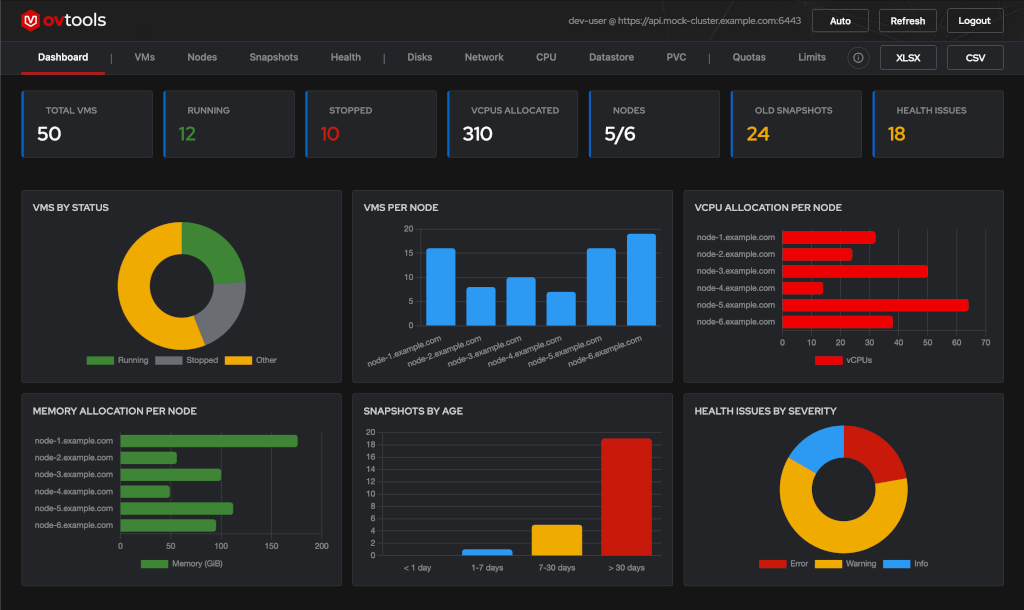
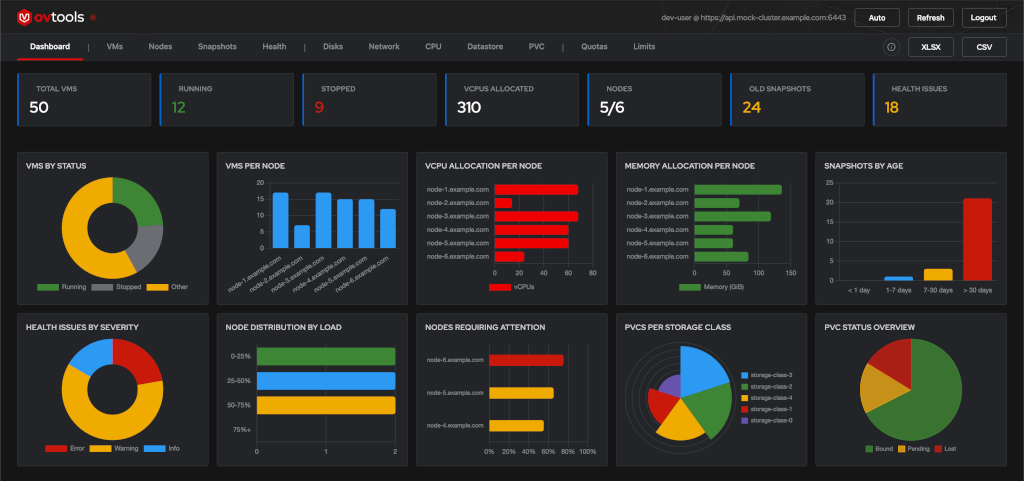
update CHANGELOG.md, deployment.yaml and graphs.png

diff --git a/CHANGELOG.md b/CHANGELOG.md
@@ -40,9 +40,34 @@ All notable changes to this project will be documented in this file.
 
 ### Added
 - Web UI
+  - Cluster connection indicator
   - Health tab:
     - Filtering by namespace
     - Sorting by column
+    - Filtering by severity
   - Disks tab:
     - Filtering by namespace
     - Sorting by column
+    - Search by VM, disk or PVC bar
+  - Network tab:
+    - Filtering by namespace and NAD
+    - Sorting by column
+    - Search by VM, MAC and IP bar
+  - CPU tab:
+    - Filtering by namespace
+    - Sorting by column
+    - Search by VM, node and model bar
+  - PVC tab:
+    - Filtering by namespace
+    - Sorting by column
+    - Search by VM, PVC, App and SC bar
+  - Datastore tab:
+    - Sorting by column
+  - Snapshots tab:
+    - Search by VM or snapshot bar
+  - Dashboard tab
+    - Cards:
+      - Node Distribution by Load
+      - Nodes Requiring Attention
+      - PVCs per Storage Class
+      - PVC Status Overview
